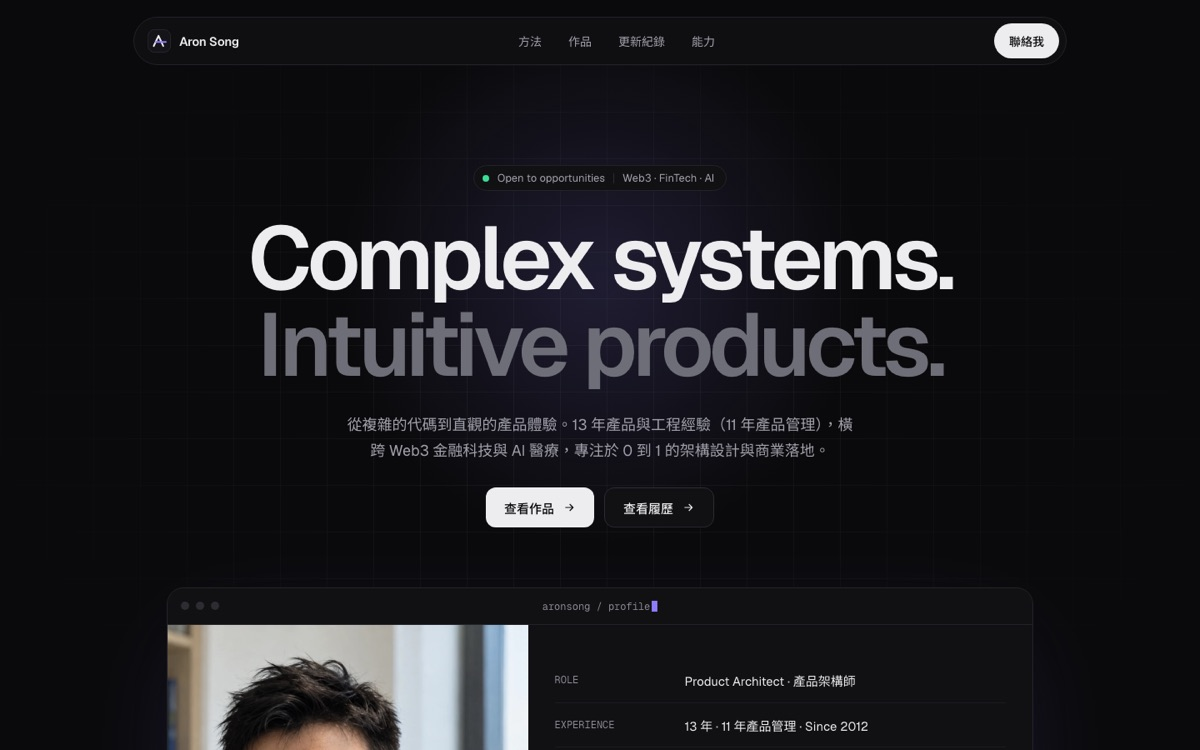
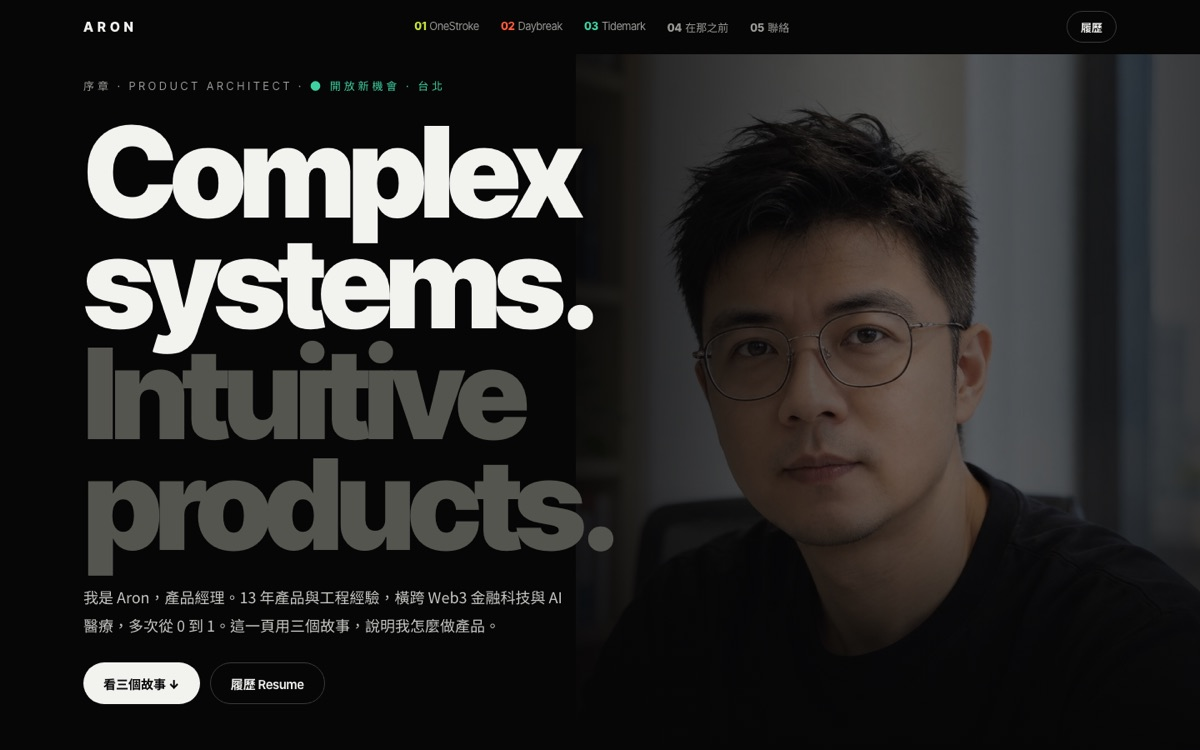
自我檢查一輪：個人主頁換新版章節與封面、首屏整組漸變、時間軸摺疊等
- 內容：個人主頁改版成「故事章節」，卡片換新封面、章節（OneStroke／Daybreak／Tidemark／在那之前／聯絡／履歷）與說明；時間軸加上搬到 aronlab.dev
- 視覺：首屏換作品時方形、logo、數字、圓點一起漸變（--pc 註冊成顏色）；「全部 N 個入口」去掉多出來的框線；Baseline 沒有畫面，滑過時保留符號；手機首屏方形置中；橫式影片放大
- 互動：時間軸先列最近 10 筆；手機上作品集封面捲到畫面中間就變回原色；滑鼠停在首屏方形或說明上暫停輪播；首屏作品名稱可以點；索引沒有結果時一鍵清除；省流量模式不自動播影片
- 細節：英文版「開工」標籤改成 Started、手機英文副標不換行、頁尾更新資訊不從中間斷行、時間軸長條補上名稱

diff --git a/assets/app.css b/assets/app.css
@@ -33,18 +33,19 @@ img, video { display: block; max-width: 100%; }
 button { font: inherit; color: inherit; }
 :focus-visible { outline: 3px solid currentColor; outline-offset: 2px; }
 
-/* 作品色階 */
+/* 作品色階。--pc 註冊成顏色，首屏換作品時整組色階（方形、logo、數字、圓點）一起漸變，不會有的先跳、有的慢慢變 */
+@property --pc { syntax: '<color>'; inherits: true; initial-value: #22A57F; }
 .pc { --t1: color-mix(in oklab, var(--pc) 20%, var(--base)); --t2: color-mix(in oklab, var(--pc) 52%, var(--base)); --t3: var(--pc); --t4: color-mix(in oklab, var(--pc) 62%, var(--deep)); }
 
 /* 方形：內層比外層小一圈，往下偏（Albers 的構圖） */
-.sq { position: relative; aspect-ratio: 1; transition: background-color 1.4s cubic-bezier(.4,0,.2,1); }
+.sq { position: relative; aspect-ratio: 1; }
 .sq > .sq { position: absolute; width: 75%; left: 12.5%; top: 18.75%; }
 
 /* ── 頂欄 ── */
 /* 頂欄是實色，顏色跟著底下的色場（app.js 設定 --top-bg、--top-fg）。
    以前桌機用 mix-blend-mode: difference，但那會把 logo 的橘色反相，iOS 捲動時也會留殘影 */
-.top { position: fixed; top: 0; left: 0; right: 0; z-index: 40; display: flex; align-items: center; gap: 28px; height: 60px; padding: 0 28px; background: var(--top-bg, var(--base)); color: var(--top-fg, var(--tx)); transition: background-color .25s, color .25s; }
-.top.over-hero { --top-bg: var(--t1); --top-fg: var(--tx); transition: background-color 1.4s cubic-bezier(.4,0,.2,1); }
+.top { position: fixed; top: 0; left: 0; right: 0; z-index: 40; display: flex; align-items: center; gap: 28px; height: 60px; padding: 0 28px; background: var(--top-bg, var(--base)); color: var(--top-fg, var(--tx)); transition: background-color .25s, color .25s, --pc 1.4s cubic-bezier(.4,0,.2,1); }
+.top.over-hero { --top-bg: var(--t1); --top-fg: var(--tx); transition: --pc 1.4s cubic-bezier(.4,0,.2,1); }
 .brand { display: flex; align-items: center; gap: 12px; margin-right: auto; font: 700 17px/1 var(--geo); letter-spacing: .16em; white-space: nowrap; }
 /* logo：A 用文字色；橫槓（游標）平常是品牌橘，看到哪個作品就換成那個作品的顏色 */
 .logo { display: block; flex: none; overflow: visible; }
@@ -63,10 +64,10 @@ html[data-lang="en"]:not(.i18n) [data-en], html[data-lang="en"]:not(.i18n) [data
 html[lang="en"] .hero h1 small { letter-spacing: .3em; }
 
 /* ── 首屏 ── */
-.hero { --pc: #22A57F; position: relative; height: 100svh; min-height: 660px; background: var(--t1); overflow: hidden; transition: background-color 1.4s cubic-bezier(.4,0,.2,1); }
+.hero { --pc: #22A57F; position: relative; height: 100svh; min-height: 660px; background: var(--t1); overflow: hidden; transition: --pc 1.4s cubic-bezier(.4,0,.2,1); }
 .hero .stage { position: absolute; left: 50%; top: 47%; width: min(64vh, 70vw); transform: translate(-50%, -50%); display: block; }
 .hero .s1 { background: var(--t2); } .hero .s2 { background: var(--t3); } .hero .s3 { background: var(--t4); display: grid; place-items: center; }
-.hero h1 { margin: 0; text-align: center; color: var(--t1); font: 800 clamp(17px, 2.8vh, 32px)/1 var(--geo); letter-spacing: .2em; transition: color 1.4s; }
+.hero h1 { margin: 0; text-align: center; color: var(--t1); font: 800 clamp(17px, 2.8vh, 32px)/1 var(--geo); letter-spacing: .2em; }
 /* 首屏的 logo 跟著色場：A 和橫槓都用最淺的色階，和方形是同一組顏色 */
 .hero h1 .logo { width: clamp(72px, 13vh, 150px); height: clamp(48px, 8.7vh, 100px); margin: 0 auto clamp(14px, 2.4vh, 26px); --logo-a: var(--t1); --logo-bar: var(--t2); }
 .hero h1 .wm { display: block; margin-right: -.2em; }
@@ -82,7 +83,8 @@ html[lang="en"] .hero h1 small { letter-spacing: .3em; }
 .now { justify-self: end; text-align: right; }
 .now .k { font: 500 12px/1 var(--geo); letter-spacing: .2em; text-transform: uppercase; color: var(--tx2); }
 .now .k.t { display: block; font: 500 12.5px/1.4 var(--geo); letter-spacing: .04em; text-transform: none; text-wrap: balance; }
-.now > b { display: block; margin-top: 6px; font: 700 22px/1.2 var(--geo); }
+.now .nm { display: block; margin-top: 6px; font: 700 22px/1.2 var(--geo); }
+.now .nm:hover { text-decoration: underline; text-decoration-thickness: 2px; text-underline-offset: 4px; }
 .live-line b { font-weight: 700; color: var(--tx); }
 .live-line { display: block; min-height: 1.5em; margin-top: 2px; font: 500 14px/1.5 var(--geo); color: var(--tx2); }
 .dots { display: flex; gap: 6px; justify-content: flex-end; margin-top: 10px; }
@@ -98,7 +100,8 @@ html[lang="en"] .hero h1 small { letter-spacing: .3em; }
 .field:hover .s2 img, .field:hover .s2 video, .field.show .s2 img, .field.show .s2 video { opacity: 1; }
 .field .glyph { position: absolute; inset: 22%; transition: opacity .5s; }
 .field .glyph svg { width: 100%; height: 100%; fill: var(--t1); }
-.field:hover .glyph, .field.show .glyph { opacity: 0; }
+/* 有畫面的作品：滑過去（手機是捲到中間）時圖形淡出、露出畫面；沒有畫面的（Baseline）圖形留著 */
+.field.has-pic:hover .glyph, .field.has-pic.show .glyph { opacity: 0; }
 .info .no { display: flex; align-items: center; flex-wrap: wrap; gap: 8px 14px; font: 500 13px/1.2 var(--geo); letter-spacing: .14em; text-transform: uppercase; }
 .info .no .hex { position: relative; width: 14px; height: 14px; padding: 0; border: 0; background: var(--t3); cursor: copy; transition: transform .15s; }
 .info .no .hex::before { content: ''; position: absolute; inset: -12px; }
@@ -126,7 +129,7 @@ html[lang="en"] .hero h1 small { letter-spacing: .3em; }
 .go a, .go span { display: inline-flex; align-items: center; height: 52px; padding: 0 24px; background: var(--t4); color: var(--base); font: 600 15px/1 var(--geo); letter-spacing: .08em; }
 .go a.alt { background: transparent; color: var(--t4); box-shadow: inset 0 0 0 3px var(--t4); }
 .go a:hover { background: var(--tx); color: var(--base); box-shadow: none; }
-.go .more { height: auto; padding: 0 0 3px; margin-left: 6px; background: none; color: var(--tx); box-shadow: none; border-bottom: 2px solid var(--t4); font: 500 14px/1.3 var(--cjk); letter-spacing: .02em; cursor: pointer; }
+.go .more { height: auto; padding: 0 0 3px; margin-left: 6px; background: none; color: var(--tx); box-shadow: none; border: 0; border-bottom: 2px solid var(--t4); font: 500 14px/1.3 var(--cjk); letter-spacing: .02em; cursor: pointer; }
 .go .more:hover { background: none; color: var(--t4); }
 .field.next { --pc: #8A8A8A; min-height: 60svh; grid-template-columns: 1fr; text-align: center; }
 .field.next .stage { width: min(40vh, 60vw); }
@@ -175,6 +178,7 @@ a.ir:hover .go2 { transform: translate(3px, -3px); }
 .ir.nolink .go2 { visibility: hidden; }
 .ir mark { background: #F4C918; color: #161616; }
 .idx-empty { padding: 40px 10px; text-align: center; color: var(--idx-tx2); }
+.idx-empty button { display: block; margin: 14px auto 0; height: 38px; padding: 0 16px; border: 0; background: var(--idx-tx); color: #161616; font: 700 13.5px/1 var(--cjk); cursor: pointer; }
 .ir.fold-row { display: block; min-height: 0; padding: 0; }
 .fold-row button { display: flex; align-items: baseline; flex-wrap: wrap; gap: 4px 14px; width: 100%; padding: 13px 10px 13px 228px; border: 0; background: transparent; color: var(--idx-tx); text-align: left; font: 700 13.5px/1.3 var(--cjk); cursor: pointer; }
 .fold-row button:hover { background: var(--idx-hi); }
@@ -190,7 +194,7 @@ a.ir:hover .go2 { transform: translate(3px, -3px); }
 .case { background: var(--t1); display: flex; flex-direction: column; }
 .case .cv { display: block; aspect-ratio: 16/10; background: var(--t2); overflow: hidden; position: relative; }
 .case .cv img { width: 100%; height: 100%; object-fit: cover; object-position: left top; mix-blend-mode: multiply; filter: grayscale(.6); transition: filter .6s, mix-blend-mode .6s; }
-.case:hover .cv img { filter: none; mix-blend-mode: normal; }
+.case:hover .cv img, .case.show .cv img { filter: none; mix-blend-mode: normal; }
 .case .b { padding: 22px 24px 26px; display: flex; flex-direction: column; flex: 1; }
 .case .sub { display: flex; align-items: center; gap: 10px; font: 500 12px/1.2 var(--geo); letter-spacing: .14em; text-transform: uppercase; }
 .case .sub i { width: 12px; height: 12px; background: var(--t4); }
@@ -239,8 +243,8 @@ button.m-item:hover img { transform: scale(1.02); }
 .m-video.playing .m-play span { opacity: 0; }
 .m-video.playing:hover .m-play span { opacity: 1; }
 .m-video.playing .m-play span::after { left: 21px; top: 20px; width: 6px; height: 20px; border: 0; border-left: 6px solid #111; border-right: 6px solid #111; box-sizing: content-box; }
-/* 橫式影片：高度最多 --sh，螢幕窄的時候縮到剛好放得下整個寬度 */
-.m-fig.wide { --vh: min(var(--sh), calc((100vw - 2 * var(--gut)) / (var(--ar)))); width: calc(var(--vh) * (var(--ar))); }
+/* 橫式影片：比直式素材大一號（最高畫面的 70%、720px），螢幕窄的時候縮到剛好放得下整個寬度 */
+.m-fig.wide { --vh: min(70svh, 720px, calc((100vw - 2 * var(--gut)) / (var(--ar)))); width: calc(var(--vh) * (var(--ar))); }
 .m-fig.wide .m-item { height: var(--vh); }
 .m-snd { position: absolute; top: 12px; right: 12px; z-index: 1; display: grid; place-items: center; width: 40px; height: 40px; padding: 0; border: 0; background: var(--t3); color: #111; cursor: pointer; }
 .m-snd:hover { background: #F1EEE7; }
@@ -304,14 +308,21 @@ button.m-item:hover img { transform: scale(1.02); }
 .g-bar::after { content: ''; position: absolute; left: 0; top: 30%; bottom: 0; width: 100%; background: var(--t4); opacity: .0; transition: opacity .2s; }
 .g-bar:hover::after { opacity: .35; }
 .g-bar.private { background: repeating-linear-gradient(90deg, var(--t3) 0 6px, transparent 6px 10px); }
-.g-dot { position: absolute; top: 17px; width: 12px; height: 12px; margin-left: -6px; background: var(--t4); }
+.g-dot { position: absolute; top: 17px; width: 12px; height: 12px; margin-left: -6px; background: var(--t4); transition: transform .15s; }
+.g-dot:hover { transform: scale(1.5); }
 .log { list-style: none; margin: 34px 0 0; padding: 0; border-top: 2px solid var(--tx); }
 .log li { display: grid; grid-template-columns: 150px 180px minmax(0, 1fr); gap: 18px; align-items: baseline; padding: 14px 6px; border-bottom: 1px solid var(--line); }
 .log time { font: 500 14px/1.4 var(--geo); color: var(--tx2); letter-spacing: .04em; }
 .log .lp { display: flex; align-items: center; gap: 10px; font: 600 15px/1.4 var(--geo); }
 .log .lp i { width: 10px; height: 10px; background: var(--t3); flex: none; }
 .log .lt { font-size: 15px; }
+/* 紀錄預設只列最近 10 筆，其餘按「顯示全部」再展開 */
+.log:not(.all) li.old { display: none; }
+.log-more { display: block; width: 100%; padding: 16px 6px; border: 0; border-bottom: 1px solid var(--line); background: none; color: var(--tx); text-align: left; font: 700 14.5px/1.3 var(--cjk); cursor: pointer; }
+.log-more span { margin-left: 10px; font: 500 13px/1 var(--geo); color: var(--tx2); }
+.log-more:hover { background: var(--line); }
 .log li.start .lt::before { content: '開工'; display: inline-block; margin-right: 10px; padding: 2px 7px; background: var(--tx); color: var(--base); font: 700 12px/1.4 var(--cjk); vertical-align: 1px; }
+html[lang="en"] .log li.start .lt::before { content: 'Started'; font-family: var(--geo); }
 
 /* ── 頁尾 ── */
 .foot { background: var(--foot-bg); color: #F1EEE7; padding: 90px var(--gut) 50px; }
@@ -335,11 +346,12 @@ button.m-item:hover img { transform: scale(1.02); }
 .foot li a:hover { text-decoration: underline; text-underline-offset: 4px; }
 .foot li a i { width: 10px; height: 10px; flex: none; }
 .foot-note p { margin: 0 0 8px; font-size: 13.5px; opacity: .7; }
+#foot-upd span { white-space: nowrap; }
 .foot-sign { display: flex; align-items: center; gap: 14px; margin-top: 56px; font: 600 13px/1 var(--geo); letter-spacing: .16em; text-transform: uppercase; }
 .foot-sign .logo { width: 48px; height: 32px; --logo-a: #F1EEE7; }
 .foot-sign .c { font-weight: 400; opacity: .5; }
 
-@media (prefers-reduced-motion: reduce) { .sq, .hero, .hero * { transition: none !important; } html { scroll-behavior: auto; } }
+@media (prefers-reduced-motion: reduce) { .sq, .hero, .hero *, .top { transition: none !important; } html { scroll-behavior: auto; } }
 
 @media (max-width: 1100px) {
   .ir { grid-template-columns: 170px minmax(0, 1.4fr) 96px minmax(0, 1fr) 20px; }
@@ -356,13 +368,15 @@ button.m-item:hover img { transform: scale(1.02); }
   .seg.lang button { border-left: 0; }
   .nav { display: none; }
   /* 手機上方形和說明改成上下排，說明有三列，用絕對定位會疊到方形 */
-  .hero { display: flex; flex-direction: column; height: auto; min-height: 100svh; }
-  .hero .stage { position: relative; left: auto; top: auto; flex: none; width: min(78vw, 48svh); margin: 84px auto 0; transform: none; }
-  .hero-bar { position: relative; margin-top: auto; grid-template-columns: 1fr; gap: 18px; padding: 32px 20px 22px; }
+  /* 方形放在頂欄和說明之間剩下的空間正中間 */
+  .hero { display: flex; flex-direction: column; height: auto; min-height: 100svh; padding-top: 84px; }
+  .hero .stage { position: relative; left: auto; top: auto; flex: none; width: min(78vw, 48svh); margin: auto; transform: none; }
+  .hero-bar { position: relative; margin-top: 0; grid-template-columns: 1fr; gap: 18px; padding: 32px 20px 22px; }
   .stats { grid-template-columns: repeat(3, auto); justify-content: start; }
   .stats div { padding: 0 12px; } .stats div:first-child { padding-left: 0; }
   .stats dt { font-size: 26px; }
   .now { justify-self: start; text-align: left; }
+  html[lang="en"] .hero h1 small { letter-spacing: .16em; }
   .dots { justify-content: flex-start; }
   .field { grid-template-columns: minmax(0, 1fr); padding: 90px 20px 60px; gap: 36px; }
   .field .stage { width: 72vw; }

diff --git a/assets/app.js b/assets/app.js
@@ -172,13 +172,20 @@
     $('now-k').textContent = line || 'Now showing';
     $('now-k').classList.toggle('t', !!line);
     $('now-name').textContent = `${p.name} ${p.zh}`;
+    $('now-name').href = `#w-${p.id}`;
     $('now-live').innerHTML = p.live && live[p.live] ? liveLine(live[p.live]) : esc(p.tagline);
-    document.querySelectorAll('#dots button').forEach((b, j) => b.classList.toggle('on', j === k));
+    document.querySelectorAll('#dots button').forEach((b, j) => { b.classList.toggle('on', j === k); b.setAttribute('aria-pressed', String(j === k)); });
   };
   $('dots').innerHTML = P.map((p) => `<button type="button" aria-label="${esc(p.name)}"></button>`).join('');
   $('dots').addEventListener('click', (e) => { const b = e.target.closest('button'); if (!b) return; clearInterval(timer); timer = null; show([...b.parentNode.children].indexOf(b)); });
   show(pickNow().i);
-  if (!reduced) timer = setInterval(() => show(k + 1), 4200);
+  // 滑鼠停在方形或右下角的說明上就先不換，讓人看完；分頁在背景時也不換
+  let hold = false;
+  [$('stage'), document.querySelector('.now')].forEach((el) => {
+    el.addEventListener('pointerenter', (e) => { if (e.pointerType === 'mouse') hold = true; });
+    el.addEventListener('pointerleave', () => { hold = false; });
+  });
+  if (!reduced) timer = setInterval(() => { if (!hold && !document.hidden) show(k + 1); }, 4200);
 
   // ── 手機頂欄：跟著正在頂欄底下的色場換底色與字色（桌機仍用混色模式，這些變數不會用到） ──
   const layers = () => document.querySelectorAll('.hero, .field, .sec, .foot');
@@ -221,7 +228,7 @@
     }).join('');
     const pic = p.cover ? `<img src="${asset(p.cover)}" alt="${esc(p.name)} ${tr('畫面', 'screenshot')}" loading="lazy">` : '';
     const domains = p.domains.map((d) => L.domains[d]).join(tr('・', ' / '));
-    return `<section class="field pc" id="w-${p.id}" style="--pc:${p.color}" aria-label="${esc(p.name)}">
+    return `<section class="field pc${pic ? ' has-pic' : ''}" id="w-${p.id}" style="--pc:${p.color}" aria-label="${esc(p.name)}">
       <a class="stage" ${url ? `href="${url}"${ext(url)}` : `href="#w-${p.id}"`} aria-label="${tr('開啟', 'Open')} ${esc(p.name)}"><div class="sq s0"><div class="sq s1"><div class="sq s2">${pic}<span class="glyph">${GLYPH[p.domains[0]] || GLYPH.stocks}</span></div></div></div></a>
       <div class="info">
         <div class="no"><button type="button" class="hex" data-hex="${p.color}" title="${tr('複製色碼', 'Copy color')} ${p.color}" aria-label="${tr(`複製 ${esc(p.name)} 的色碼`, `Copy the ${esc(p.name)} color`)} ${p.color}"></button><span>No.${p.no} · ${esc(domains)} · ${esc(p.kind)}</span><span class="st">${STATUS[p.status]} · ${esc(p.cadence)}</span></div>
@@ -236,16 +243,16 @@
           ${p.site && cs ? `<a class="alt" href="${cs}"${ext(cs)}>${tr('作品集', 'Case study')}</a>` : ''}
           ${p.promo ? `<a class="alt" href="#media-${p.id}">${tr('宣傳素材', 'Media')}</a>` : ''}
           ${p.repo ? `<a class="alt" href="${p.repo}" target="_blank" rel="noopener">${tr('原始碼', 'Source')}${p.repoPrivate ? tr('（私人）', ' (private)') : ''}</a>` : ''}
-          <button type="button" class="more" data-goto="${p.id}">${tr(`全部 ${countFor(p)} 個入口`, `All ${countFor(p)} entries`)} →</button>
+          ${countFor(p) > 1 ? `<button type="button" class="more" data-goto="${p.id}">${tr(`全部 ${countFor(p)} 個入口`, `All ${countFor(p)} entries`)} →</button>` : ''}
         </div>
       </div>
     </section>`;
   }).join('') + `<section class="field next pc" id="w-next"><div class="stage"><div class="sq s0"><div class="sq s1"><div class="sq s2"></div></div></div></div><div><h2>No.${pad(P.length + 1)} · ${tr('製作中', 'In progress')}</h2><p>${tr('新的作品會依序編號，加進這一頁和索引。', 'New works take the next number and join this page and the index.')}</p></div></section>`;
-  // 手機沒有滑鼠：色場進到畫面中間時直接把畫面顯示出來
-  if (!matchMedia('(hover: hover)').matches) {
-    const io = new IntersectionObserver((list) => list.forEach((en) => en.target.classList.toggle('show', en.isIntersecting)), { rootMargin: '-35% 0px -35% 0px' });
-    document.querySelectorAll('.field').forEach((f) => io.observe(f));
-  }
+  // 手機沒有滑鼠：色場、作品集卡片進到畫面中間時直接把畫面顯示出來（桌機是滑過去才顯示）
+  const touch = !matchMedia('(hover: hover)').matches;
+  const ioShow = touch && new IntersectionObserver((list) => list.forEach((en) => en.target.classList.toggle('show', en.isIntersecting)), { rootMargin: '-35% 0px -35% 0px' });
+  const revealOnTouch = (sel) => ioShow && document.querySelectorAll(sel).forEach((f) => ioShow.observe(f));
+  revealOnTouch('.field');
 
   // ── 索引 ──
   const state = { prod: 'all', type: 'all', q: '' };
@@ -281,7 +288,7 @@
     const fa = $('idx-fold');
     fa.hidden = !foldable.length;
     fa.textContent = foldable.every((id) => open.has(id)) ? tr('全部收合', 'Collapse all') : tr('全部展開', 'Expand all');
-    if (!rows.length) { $('idx').innerHTML = `<div class="idx-empty">${tr('沒有符合的入口。換個關鍵字，或清除篩選。', 'No matching entries. Try another keyword, or clear the filters.')}</div>`; return; }
+    if (!rows.length) { $('idx').innerHTML = `<div class="idx-empty">${tr('沒有符合的入口。換個關鍵字，或清除篩選。', 'No matching entries. Try another keyword, or clear the filters.')}<button type="button" data-reset>${tr('清除搜尋與篩選', 'Clear search and filters')}</button></div>`; return; }
     $('idx').innerHTML = `<div class="ir head" role="row">${tr(['作品', '入口', '類型', '網址'], ['Work', 'Entry', 'Type', 'URL']).map((h) => `<span role="columnheader">${h}</span>`).join('')}<span></span></div>` +
       [...byP].map(([p, list]) => {
         if (!foldable.includes(p.id)) return list.map((e, i) => row(e, i === 0, q)).join('');
@@ -289,7 +296,12 @@
         return (isOpen ? list : list.slice(0, 1)).map((e, i) => row(e, i === 0, q)).join('') + foldRow(p, list.slice(1), isOpen);
       }).join('');
   };
+  const resetIndex = () => {
+    $('q').value = ''; state.q = '';
+    idxProd.querySelector('[data-p="all"]').click(); idxType.querySelector('[data-t="all"]').click();
+  };
   $('idx').addEventListener('click', (ev) => {
+    if (ev.target.closest('[data-reset]')) { resetIndex(); $('q').focus({ preventScroll: true }); return; }
     const b = ev.target.closest('[data-fold]'); if (!b) return;
     const id = b.dataset.fold, closing = open.has(id), top = b.getBoundingClientRect().top;
     closing ? open.delete(id) : open.add(id);
@@ -356,6 +368,7 @@
       </div>
     </article>`;
   }).join('');
+  revealOnTouch('.case');
 
   // ── 宣傳素材 ──
   const promoted = P.filter((p) => p.promo);
@@ -383,6 +396,7 @@
     </article>`;
   }).join('');
   document.addEventListener('click', (e) => { const b = e.target.closest('[data-strip]'); if (!b) return; const s = b.closest('.mk').querySelector('.strip'); s.scrollBy({ left: Math.sign(+b.dataset.strip) * s.clientWidth * .8, behavior: reduced ? 'auto' : 'smooth' }); });
+  const saveData = !!(navigator.connection && navigator.connection.saveData);
   document.querySelectorAll('.m-video').forEach((box) => {
     const v = box.querySelector('video'), sync = () => box.classList.toggle('playing', !v.paused);
     v.addEventListener('play', sync); v.addEventListener('pause', sync);
@@ -394,7 +408,8 @@
       snd.setAttribute('aria-label', v.muted ? tr('開啟聲音', 'Turn sound on') : tr('關閉聲音', 'Turn sound off'));
       if (!v.muted && v.paused) v.play().catch(() => {});
     });
-    if (!reduced) new IntersectionObserver(([en]) => { if (en.isIntersecting) v.play().catch(() => {}); else v.pause(); }, { threshold: .6 }).observe(box);
+    // 捲到畫面裡自動播（靜音）；減少動態或省流量模式就等人按播放
+    if (!reduced && !saveData) new IntersectionObserver(([en]) => { if (en.isIntersecting) v.play().catch(() => {}); else v.pause(); }, { threshold: .6 }).observe(box);
   });
   const lb = $('lb'); let cur = 0;
   const showShot = (i) => { cur = (i + shots.length) % shots.length; $('lb-img').src = shots[cur].src; $('lb-img').alt = shots[cur].t; $('lb-cap').textContent = shots[cur].t; $('lb-n').textContent = `${cur + 1} / ${shots.length}`; };
@@ -414,7 +429,7 @@
   ticks.push(`<span class="g-tick today" style="left:${x(todayISO)}%"><span>${tr('今天', 'Today')} ${md(todayISO)}</span></span>`);
   $('gantt').innerHTML = `<div class="g-axis" aria-hidden="true">${ticks.join('')}</div>` + P.map((p) => {
     const dots = L.milestones.filter((m) => m.p === p.id).map((m) => `<span class="g-dot" style="left:${x(m.d)}%" title="${md(m.d)} ${esc(m.t)}"></span>`).join('');
-    return `<div class="g-row pc" style="--pc:${p.color}"><div class="l"><i></i>${esc(p.name)}</div><div class="g-track"><a class="g-bar${p.status === 'private' ? ' private' : ''}" href="#w-${p.id}" style="left:${x(p.started)}%;width:${Math.max(x(todayISO) - x(p.started), 1)}%" title="${esc(p.name)}${tr(`：${md(p.started)} 開工至今`, `: ${md(p.started)} to today`)}"></a>${dots}</div></div>`;
+    return `<div class="g-row pc" style="--pc:${p.color}"><div class="l"><i></i>${esc(p.name)}</div><div class="g-track"><a class="g-bar${p.status === 'private' ? ' private' : ''}" href="#w-${p.id}" aria-label="${esc(p.name)}" style="left:${x(p.started)}%;width:${Math.max(x(todayISO) - x(p.started), 1)}%" title="${esc(p.name)}${tr(`：${md(p.started)} 開工至今`, `: ${md(p.started)} to today`)}"></a>${dots}</div></div>`;
   }).join('');
   // 窄螢幕上「今天」的標籤會壓到旁邊的日期，壓到的就先藏起來
   const fitTicks = () => {
@@ -435,10 +450,29 @@
     ...P.map((p) => ({ d: p.started, p, start: true, t: `<b>${esc(p.name)} ${esc(p.zh)}</b>${tr('：', ': ')}${esc(p.tagline)}` })),
     ...L.milestones.map((m) => ({ d: m.d, p: byId[m.p] || null, t: esc(m.t) })),
   ].sort((a, b) => (a.d < b.d ? 1 : a.d > b.d ? -1 : (a.start ? 1 : 0) - (b.start ? 1 : 0)));
-  $('log-list').innerHTML = events.map((e) => `<li class="${e.start ? 'start' : ''}${e.p ? ' pc' : ''}" ${e.p ? `style="--pc:${e.p.color}"` : ''}>
+  // 紀錄只先列最近 10 筆，其餘收在「顯示全部」後面（手機上整串很長）
+  const LOG_N = 10;
+  $('log-list').innerHTML = events.map((e, i) => `<li class="${e.start ? 'start' : ''}${e.p ? ' pc' : ''}${i >= LOG_N ? ' old' : ''}" ${e.p ? `style="--pc:${e.p.color}"` : ''}>
     <time datetime="${e.d}">${dotted(e.d)}${tr(`（${dow(e.d)}）`, ` · ${dow(e.d)}`)}</time>
     <span class="lp">${e.p ? `<i></i><a href="#w-${e.p.id}">${esc(e.p.name)}</a>` : '<i style="background:var(--tx)"></i>Aron Lab'}</span>
     <span class="lt">${e.t}</span></li>`).join('');
+  if (events.length > LOG_N) {
+    const ll = $('log-list');
+    ll.insertAdjacentHTML('afterend', '<button type="button" class="log-more" id="log-more" aria-expanded="false" aria-controls="log-list"></button>');
+    const lm = $('log-more');
+    const label = () => {
+      const all = ll.classList.contains('all');
+      lm.setAttribute('aria-expanded', String(all));
+      lm.innerHTML = all ? tr(`− 只看最近 ${LOG_N} 筆`, `− Show only the latest ${LOG_N}`) : `${tr(`＋ 顯示全部 ${events.length} 筆紀錄`, `+ Show all ${events.length} updates`)}<span>${tr(`還有 ${events.length - LOG_N} 筆，最早到 ${dotted(events[events.length - 1].d)}`, `${events.length - LOG_N} more, back to ${dotted(events[events.length - 1].d)}`)}</span>`;
+    };
+    lm.addEventListener('click', () => {
+      const top = lm.getBoundingClientRect().top, closing = ll.classList.contains('all');
+      ll.classList.toggle('all'); label();
+      // 收合時讓按鈕留在原本的位置，不然畫面會跳到頁尾
+      if (closing) window.scrollBy({ top: lm.getBoundingClientRect().top - top, behavior: 'instant' });
+    });
+    label();
+  }
 
   // ── 頁尾 ──
   $('next-no').textContent = pad(P.length + 1);
@@ -446,7 +480,7 @@
     `<button type="button" class="nx" id="next-sq" title="${tr(`幫 No.${pad(P.length + 1)} 挑個顏色`, `Pick a color for No.${pad(P.length + 1)}`)}" aria-label="${tr('幫下一個作品隨機挑個顏色', 'Pick a random color for the next work')}"></button>`;
   $('foot-prods').innerHTML = P.map((p) => `<li><a href="#w-${p.id}"><i style="background:${p.color}"></i>${esc(p.name)} ${esc(p.zh)}</a></li>`).join('');
   $('foot-cases').innerHTML = L.works.map((w) => `<li><a href="${w.url}" target="_blank" rel="noopener">${esc(w.sub)} ↗</a></li>`).join('');
-  $('foot-upd').textContent = tr(`ARON LAB · 內容更新 ${L.updated} · ${P.length} 個作品 · ${entries.length} 個入口`, `ARON LAB · Updated ${L.updated} · ${P.length} works · ${entries.length} entries`);
+  $('foot-upd').innerHTML = (tr(['ARON LAB', `內容更新 ${L.updated}`, `${P.length} 個作品`, `${entries.length} 個入口`], ['ARON LAB', `Updated ${L.updated}`, `${P.length} works`, `${entries.length} entries`])).map((t) => `<span>${t}</span>`).join(' · ');
 
   // ── 目前章節 ──
   const navLinks = [...document.querySelectorAll('[data-nav]')];

diff --git a/data/lab.js b/data/lab.js
@@ -2,7 +2,7 @@
 // 欄位說明見 README.md。網址可以寫完整網址，或寫相對於 site 的路徑（例如 '#news'、'en/'）。
 // 英文版：每一筆都可以帶 en。字串＝英文標題；物件＝要換成英文的欄位（例如 { tagline, desc }，網址也可以換）。沒寫的就沿用中文。
 window.LAB = {
-  updated: '2026-11-11',
+  updated: '2026-11-12',
   owner: {
     name: 'Aron',
     github: 'https://github.com/North7',
@@ -456,19 +456,20 @@ window.LAB = {
       id: 'portfolio', product: null, type: 'site', go: '前往主頁',
       title: 'Complex systems. Intuitive products.',
       sub: 'Aron 個人主頁',
-      desc: '從複雜的代碼到直觀的產品體驗。13 年產品與工程經驗（11 年產品管理），橫跨 Web3 金融科技與 AI 醫療，專注於 0 到 1 的架構設計與商業落地。',
-      meta: [['角色', 'Product Architect · 產品架構師'], ['領域', 'Web3 FinTech · AI MedTech'], ['內容', '方法、作品、職涯更新紀錄、能力、履歷']],
+      desc: '13 年產品與工程經驗（11 年產品管理），橫跨 Web3 金融科技與 AI 醫療，多次從 0 到 1。主頁用三個產品故事說明我怎麼做產品：問題、做法、結果各一段，再接到之前的經歷與履歷。',
+      meta: [['角色', 'Product Architect · 產品架構師'], ['領域', 'Web3 FinTech · AI MedTech'], ['內容', '三個產品故事、在那之前的經歷、聯絡、履歷']],
       url: 'https://portfolio.aronlab.dev/',
       cover: 'assets/covers/portfolio.jpg',
       chaptersLabel: '個人主頁',
-      chapters: [['方法', '#approach'], ['作品', '#work'], ['更新紀錄', '#changelog'], ['能力', '#stack'], ['聯絡', '#contact'], ['履歷', 'resume/']],
+      // 2026-11-12 改版成「故事章節」：三個作品各一章，再來是之前的經歷和聯絡
+      chapters: [['OneStroke', '#c1'], ['Daybreak', '#c2'], ['Tidemark', '#c3'], ['在那之前', '#c4'], ['聯絡', '#end'], ['履歷', 'resume/']],
       en: {
         sub: 'Aron homepage',
-        desc: 'From complex code to intuitive product experiences. 13 years in product and engineering (11 in product management), across Web3 fintech and AI medtech, focused on 0-to-1 architecture and bringing products to market.',
-        meta: [['Role', 'Product Architect'], ['Domains', 'Web3 FinTech · AI MedTech'], ['Contents', 'Approach, work, career log, skills, résumé']],
+        desc: '13 years in product and engineering (11 in product management) across Web3 fintech and AI medtech, taking products from 0 to 1 several times. The homepage tells three product stories, each as problem, approach and result, then covers my earlier career and résumé.',
+        meta: [['Role', 'Product Architect'], ['Domains', 'Web3 FinTech · AI MedTech'], ['Contents', 'Three product stories, earlier career, contact, résumé']],
         go: 'Visit homepage (Chinese)',
         chaptersLabel: 'Homepage',
-        chapters: [['Approach', '#approach'], ['Work', '#work'], ['Career log', '#changelog'], ['Skills', '#stack'], ['Contact', '#contact'], ['Résumé', 'resume/']],
+        chapters: [['OneStroke', '#c1'], ['Daybreak', '#c2'], ['Tidemark', '#c3'], ['Before that', '#c4'], ['Contact', '#end'], ['Résumé', 'resume/']],
       },
     },
   ],
@@ -491,5 +492,6 @@ window.LAB = {
     { d: '2026-11-05', p: 'daybreak', t: '圖表加上「我們的看法」：傾向、理由，以及什麼情況會改變看法', en: 'Charts add "our view": the lean, the reasons, and what would change it' },
     { d: '2026-11-11', p: 'daybreak', t: '首頁改版：七頁各回答一個問題、近百張圖各附一句結論；舊版搬到 classic.html', en: 'New homepage: seven pages that each answer one question, nearly 100 charts with a one-line read each; the old layout moved to classic.html' },
     { d: '2026-11-11', p: 'daybreak', t: '新版首頁展示影片（橫式 78 秒）', en: 'Showcase video for the new homepage (landscape, 78 s)' },
+    { d: '2026-11-12', p: null, t: '搬到自己的網域 aronlab.dev，每個作品一個子網域（例如 daybreak.aronlab.dev）', en: 'Moved to its own domain, aronlab.dev, with a subdomain for each work (for example daybreak.aronlab.dev)' },
   ],
 };

diff --git a/index.html b/index.html
@@ -67,7 +67,7 @@ try { var t = localStorage.getItem('lab.theme'); if (t === 'light' || t === 'dar
     <div class="hero-bar">
       <div class="cap"><p data-en-html="What I need every day,<br>I build into a product.">自己每天要用的，<br>就自己做成產品。</p><span>Homage to the Product, 2026 — after <button type="button" class="egg-link" data-egg>Josef Albers</button></span></div>
       <dl class="stats" id="stats"></dl>
-      <div class="now"><span class="k" id="now-k">Now showing</span><b id="now-name">—</b><span class="live-line" id="now-live"></span><div class="dots" id="dots" role="group" aria-label="選擇作品" data-en-label="Choose a work"></div></div>
+      <div class="now"><span class="k" id="now-k">Now showing</span><a class="nm" id="now-name" href="#works">—</a><span class="live-line" id="now-live"></span><div class="dots" id="dots" role="group" aria-label="選擇作品" data-en-label="Choose a work"></div></div>
     </div>
   </section>
 
